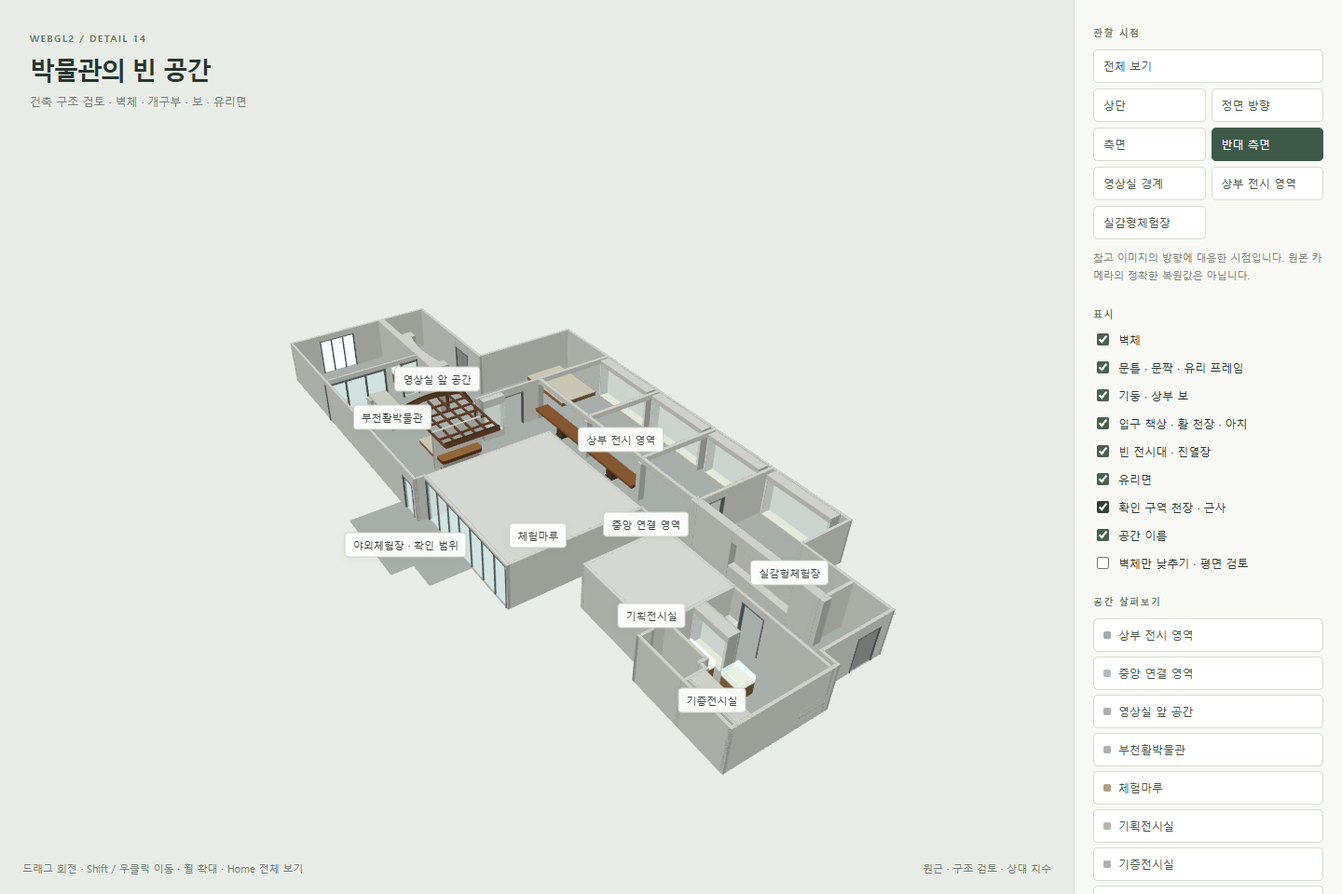
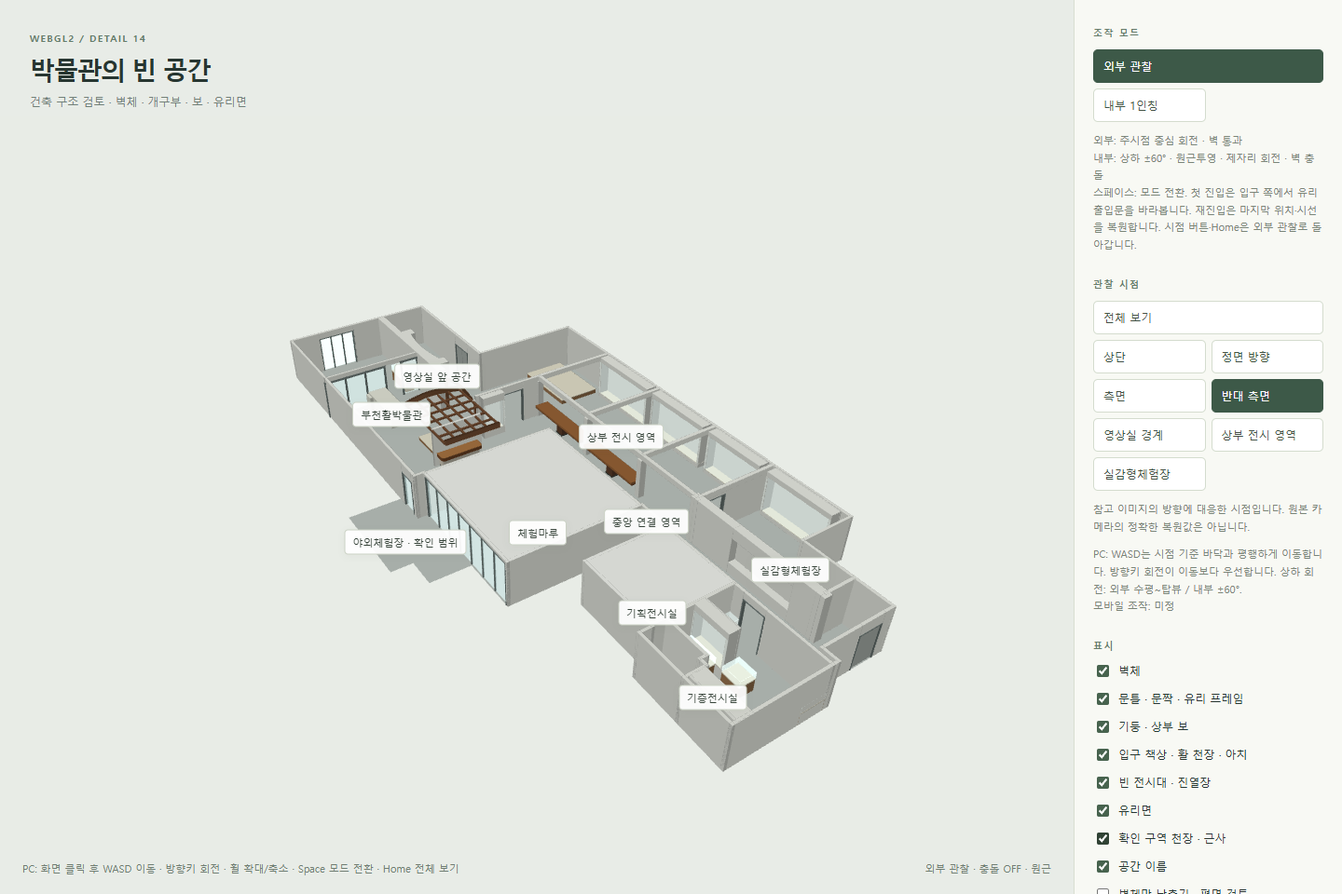
1인칭/3인칭 변환 추가

diff --git a/viewer.js b/viewer.js
@@ -1,4 +1,4 @@
-/* baseline의 D.M4, D.upload, D.program, D.loop와 InspectionControls 재사용.
+/* baseline의 D.M4, D.upload, D.program, D.loop 재사용. PC 카메라는 MuseumControls.
  * 모델 생성·근거 기록은 layout.js/geometry.js에만 둔다. */
 (()=>{
   'use strict';
@@ -6,7 +6,9 @@
   try {
     const gl=canvas.getContext('webgl2',{antialias:true});
     if(!gl)throw new Error('WebGL2를 사용할 수 없습니다. WebGL2 지원 브라우저에서 열어 주세요.');
-    const M=D.M4,controls=InspectionControls(canvas),model=MuseumGeometry.build();
+    const M=D.M4,model=MuseumGeometry.build(),collision=MuseumCollision(model,MuseumLayout);
+    const initialEntry=MuseumGeometry.point([125,430]); // 사용자 체크 위치: 서측 입구 대기 공간
+    const controls=MuseumControls(canvas,{onHome:()=>home(),onInput:()=>{selected='free';sync();},onModeChange:()=>{selected='free';sync();},initialInterior:{eye:[initialEntry[0],1.575,initialEntry[1]],yaw:Math.atan2(125-205,430-366.5)},move:collision.move,spawn:collision.spawn});
     const program=D.program(gl,`#version 300 es
       layout(location=0) in vec3 aPos;layout(location=1) in vec3 aNormal;
       uniform mat4 uModel,uVP;uniform mat3 uNormal;out vec3 vN;
@@ -21,31 +23,34 @@
     const view=M.create(),projection=M.create(),vp=M.create(),identity=M.create();
     const points=MuseumLayout.floor.polygon.map(MuseumGeometry.point);
     const lo=[Math.min(...points.map(p=>p[0])),Math.min(...points.map(p=>p[1]))],hi=[Math.max(...points.map(p=>p[0])),Math.max(...points.map(p=>p[1]))];
-    const center=[(lo[0]+hi[0])/2,.7,(lo[1]+hi[1])/2],radius=Math.hypot(hi[0]-lo[0],hi[1]-lo[1])/2;
+    const center=[(lo[0]+hi[0])/2,.5,(lo[1]+hi[1])/2],radius=Math.hypot(hi[0]-lo[0],hi[1]-lo[1])/2;
     let selected='orbit',lastCamera=null;
     const fields=Object.fromEntries(['walls','frames','names','low','structure','glass','ceiling','details','displays'].map(id=>[id,document.getElementById(id)]));
-    function home(){controls.home();controls.state.target=[...center];controls.state.distance=radius*1.8;selected='orbit';sync();}
-    function sync(){document.querySelectorAll('[data-view]').forEach(b=>b.classList.toggle('active',b.dataset.view===selected));}
-    document.querySelectorAll('[data-view]').forEach(b=>b.addEventListener('click',()=>{if(b.dataset.view==='orbit')home();else{selected=b.dataset.view;controls.state.target=selected==='partition'?[(164-MuseumLayout.origin[0])*MuseumLayout.scale,.8,(300-MuseumLayout.origin[1])*MuseumLayout.scale]:[...center];controls.state.distance=selected==='partition'?14:radius*1.8;if(selected==='gallery'){controls.state.target=[(620-MuseumLayout.origin[0])*MuseumLayout.scale,.9,(100-MuseumLayout.origin[1])*MuseumLayout.scale];controls.state.distance=30;}if(selected==='immersive'){controls.state.target=[(935-MuseumLayout.origin[0])*MuseumLayout.scale,1,(120-MuseumLayout.origin[1])*MuseumLayout.scale];controls.state.distance=18;}sync();}}));
-    // 고정 시점에서 조작하면 eye/up을 쿼터니언으로 변환해 같은 방향에서 이어간다.
-    function adoptCamera(){if(selected==='orbit'||!lastCamera)return;
-      const c=lastCamera,z=c.eye.map((v,i)=>v-c.target[i]),len=Math.hypot(...z);for(let i=0;i<3;i++)z[i]/=len;
-      const cross=(a,b)=>[a[1]*b[2]-a[2]*b[1],a[2]*b[0]-a[0]*b[2],a[0]*b[1]-a[1]*b[0]];
-      const x=cross(c.up,z),xn=Math.hypot(...x);for(let i=0;i<3;i++)x[i]/=xn;const y=cross(z,x);
-      const a=x[0],b=y[0],d=z[0],e=x[1],f=y[1],g=z[1],h=x[2],i=y[2],j=z[2],trace=a+f+j;let q,s;
-      if(trace>0){s=Math.sqrt(trace+1)*2;q=[(i-g)/s,(d-h)/s,(e-b)/s,s/4];}
-      else if(a>f&&a>j){s=Math.sqrt(1+a-f-j)*2;q=[s/4,(b+e)/s,(d+h)/s,(i-g)/s];}
-      else if(f>j){s=Math.sqrt(1+f-a-j)*2;q=[(b+e)/s,s/4,(g+i)/s,(d-h)/s];}
-      else{s=Math.sqrt(1+j-a-f)*2;q=[(d+h)/s,(g+i)/s,s/4,(e-b)/s];}
-      controls.state.rotation=q;controls.state.target=[...c.target];controls.state.distance=len;selected='orbit';sync();
+    function sync(){document.querySelectorAll('[data-mode]').forEach(b=>b.classList.toggle('active',b.dataset.mode===controls.state.mode));document.querySelectorAll('[data-view]').forEach(b=>b.classList.toggle('active',b.dataset.view===selected));}
+    function home(){lastCamera=null;controls.setView({target:center,distance:radius*1.8});selected='orbit';sync();}
+    function preset(name){
+      lastCamera=null;
+      if(name==='orbit'){home();return;}
+      const poses={top:[0,1,0],front:[0,.65,-1],left:[-.85,.75,.55],right:[.85,.75,.55],partition:[.12,.72,-.30],gallery:[0,6,9],immersive:[.22,.40,.55]};
+      const v=poses[name];if(!v)return;
+      let target=[...center],distance=radius*1.8;
+      if(name==='partition'){target=[(164-MuseumLayout.origin[0])*MuseumLayout.scale,.8,(300-MuseumLayout.origin[1])*MuseumLayout.scale];distance=14;}
+      if(name==='gallery'){target=[(620-MuseumLayout.origin[0])*MuseumLayout.scale,.9,(100-MuseumLayout.origin[1])*MuseumLayout.scale];distance=1;}
+      if(name==='immersive'){target=[(935-MuseumLayout.origin[0])*MuseumLayout.scale,1,(120-MuseumLayout.origin[1])*MuseumLayout.scale];distance=18;}
+      const aspect=Math.max(.1,canvas.clientWidth/Math.max(1,canvas.clientHeight));
+      controls.setView({target,distance:distance*Math.hypot(...v),yaw:name==='top'?0:Math.atan2(v[0],v[2]),pitch:Math.atan2(v[1],Math.hypot(v[0],v[2])),orthographic:name==='top'||name==='gallery',halfHeight:name==='gallery'?14/aspect:Math.max(radius*.65,radius*1.08/aspect)});
+      selected=name;sync();
     }
-    canvas.addEventListener('pointerdown',adoptCamera,true);canvas.addEventListener('wheel',adoptCamera,{capture:true,passive:true});
-    canvas.addEventListener('keydown',e=>{if(e.key==='Home'){e.preventDefault();e.stopImmediatePropagation();home();}else adoptCamera();},true);
+    document.querySelectorAll('[data-view]').forEach(b=>b.addEventListener('click',()=>preset(b.dataset.view)));
+    document.querySelectorAll('[data-mode]').forEach(b=>b.addEventListener('click',()=>{
+      controls.setMode(b.dataset.mode);
+      canvas.focus({preventScroll:true});
+    }));
     const labels=MuseumLayout.rooms.map(room=>{
       const el=document.createElement('span');el.className='room-label';el.textContent=room.name;document.querySelector('#labels').append(el);
       const pts=room.polygon.map(MuseumGeometry.point),p=[pts.reduce((s,v)=>s+v[0],0)/pts.length,.12,pts.reduce((s,v)=>s+v[1],0)/pts.length];
       const button=document.createElement('button'),dot=document.createElement('span');dot.className='swatch';dot.style.background=`rgb(${room.color.map(v=>Math.round(v*255)).join(',')})`;button.append(dot,document.createTextNode(room.name));button.title=room.note;
-      button.addEventListener('click',()=>{adoptCamera();controls.state.target=[p[0],.5,p[2]];controls.state.distance=room.id==='long'?27:15;selected='orbit';sync();});document.querySelector('#rooms').append(button);
+      button.addEventListener('click',()=>{lastCamera=null;if(controls.state.mode==='interior')controls.setMode('interior',[p[0],1.575,p[2]]);else controls.setView({target:[p[0],.5,p[2]],distance:room.id==='long'?27:15,yaw:controls.state.yaw,pitch:controls.state.pitch});selected='free';sync();});document.querySelector('#rooms').append(button);
       return {el,p,room:room.id};
     });
     MuseumLayout.unresolved.forEach(t=>{const li=document.createElement('li');li.textContent=t;document.querySelector('#notes').append(li);});
@@ -53,20 +58,13 @@
     function matrix(p){const m=M.create(),short=fields.low.checked&&p.group==='wall';M.translate(m,m,[p.position[0],short?p.position[1]*.25:p.position[1],p.position[2]]);M.rotateY(m,m,p.yaw||0);M.scale(m,m,[p.size[0],short?p.size[1]*.25:p.size[1],p.size[2]]);return m;}
     function draw(mesh,m,color,alpha=1){gl.uniformMatrix4fv(U.uModel,false,m);gl.uniformMatrix3fv(U.uNormal,false,M.normalFrom(m));gl.uniform3fv(U.uColor,color);gl.uniform1f(U.uAlpha,alpha);gl.bindVertexArray(mesh.vao);gl.drawElements(gl.TRIANGLES,mesh.count,gl.UNSIGNED_SHORT,0);}
     function visible(p){if(selected==='gallery'&&!['long','immersive'].includes(p.room))return false;return (p.group!=='wall'||fields.walls.checked)&&(p.group!=='frame'||fields.frames.checked)&&(p.group!=='structure'||fields.structure.checked)&&(p.group!=='glass'||fields.glass.checked)&&(p.group!=='details'||fields.details.checked)&&(!['displays','displayGlass'].includes(p.group)||fields.displays.checked)&&(p.group!=='displayGlass'||fields.glass.checked);}
-    D.loop(()=>{
+    D.loop((now,dt)=>{
+      controls.update(dt);
       const r=canvas.getBoundingClientRect(),dpr=Math.min(devicePixelRatio||1,2),w=Math.max(1,Math.round(r.width*dpr)),h=Math.max(1,Math.round(r.height*dpr));if(canvas.width!==w||canvas.height!==h){canvas.width=w;canvas.height=h;}
       gl.viewport(0,0,w,h);gl.clearColor(.91,.925,.90,1);gl.clear(gl.COLOR_BUFFER_BIT|gl.DEPTH_BUFFER_BIT);
-      let camera=controls.camera();const t=controls.state.target,dist=controls.state.distance;
-      if(selected==='top')camera={eye:[t[0],t[1]+dist,t[2]],target:t,up:[0,0,-1]};
-      if(selected==='front')camera={eye:[t[0],t[1]+dist*.65,t[2]-dist],target:t,up:[0,1,0]};
-      if(selected==='left')camera={eye:[t[0]-dist*.85,t[1]+dist*.75,t[2]+dist*.55],target:t,up:[0,1,0]};
-      if(selected==='right')camera={eye:[t[0]+dist*.85,t[1]+dist*.75,t[2]+dist*.55],target:t,up:[0,1,0]};
-      if(selected==='partition')camera={eye:[t[0]+dist*.12,t[1]+dist*.72,t[2]-dist*.30],target:t,up:[0,1,0]};
-      if(selected==='gallery')camera={eye:[t[0],t[1]+6,t[2]+9],target:t,up:[0,1,0]};
-      if(selected==='immersive')camera={eye:[t[0]+dist*.22,t[1]+dist*.40,t[2]+dist*.55],target:t,up:[0,1,0]};
+      const camera=controls.camera();
       lastCamera=camera;M.lookAt(view,camera.eye,camera.target,camera.up);
-      if(selected==='top'){const half=radius*.65;M.ortho(projection,-Math.max(half*w/h,radius*1.08),Math.max(half*w/h,radius*1.08),-Math.max(half,radius*1.08*h/w),Math.max(half,radius*1.08*h/w),.02,250);}
-      else if(selected==='gallery')M.ortho(projection,-14,14,-14*h/w,14*h/w,.02,250);
+      if(controls.state.orthographic){const half=controls.state.halfHeight;M.ortho(projection,-half*w/h,half*w/h,-half,half,.02,250);}
       else M.perspective(projection,controls.state.fov*Math.PI/180,w/h,.02,250);
       M.multiply(vp,projection,view);gl.useProgram(program);gl.uniformMatrix4fv(U.uVP,false,vp);
       for(const f of model.floors){if(f.group==='ceiling'&&!fields.ceiling.checked)continue;draw(f.gpu,identity,f.color);}
@@ -77,7 +75,7 @@
       for(const p of model.parts.filter(p=>['glass','displayGlass'].includes(p.group)&&visible(p)).sort((a,b)=>distance(b)-distance(a)))draw(cube,matrix(p),p.color,p.alpha);
       gl.depthMask(true);gl.disable(gl.BLEND);
       for(const {el,p,room} of labels){const clip=[0,1,2,3].map(i=>vp[i]*p[0]+vp[4+i]*p[1]+vp[8+i]*p[2]+vp[12+i]),x=clip[0]/clip[3],y=clip[1]/clip[3];el.hidden=(selected==='gallery'&&!['long','immersive'].includes(room))||!fields.names.checked||clip[3]<=0||Math.abs(x)>1||Math.abs(y)>1;el.style.left=(x*.5+.5)*r.width+'px';el.style.top=(-y*.5+.5)*r.height+'px';}
-      document.querySelector('#readings').textContent=`${selected==='top'?'직교':'원근'} · 구조 검토 · 상대 치수`;
+      document.querySelector('#readings').textContent=`${controls.state.mode==='interior'?'내부 1인칭 · 충돌 ON':'외부 관찰 · 충돌 OFF'} · ${controls.state.orthographic?'직교':'원근'}`;
     });
     window.MuseumViewer={gl,model,controls,home,partMatrix:matrix,get camera(){return lastCamera;}};
   } catch(e){error.hidden=false;error.textContent=e.message;console.error(e);}

diff --git a/controls.js b/controls.js
@@ -1,49 +1,53 @@
-/* 가상 구(arcball)에 포인터를 투영하는 기본 트랙볼.
-   회전 상태는 쿼터니언이며 카메라의 eye/up을 함께 회전합니다. */
-window.InspectionControls = function(canvas) {
-  const normalize=v=>{const n=Math.hypot(...v)||1;return v.map(x=>x/n);};
-  const cross=(a,b)=>[a[1]*b[2]-a[2]*b[1],a[2]*b[0]-a[0]*b[2],a[0]*b[1]-a[1]*b[0]];
-  const mul=(a,b)=>[
-    a[3]*b[0]+a[0]*b[3]+a[1]*b[2]-a[2]*b[1],
-    a[3]*b[1]-a[0]*b[2]+a[1]*b[3]+a[2]*b[0],
-    a[3]*b[2]+a[0]*b[1]-a[1]*b[0]+a[2]*b[3],
-    a[3]*b[3]-a[0]*b[0]-a[1]*b[1]-a[2]*b[2]];
-  const rotate=(q,v)=>mul(mul(q,[...v,0]),[-q[0],-q[1],-q[2],q[3]]).slice(0,3);
-  const state={target:[3,3,0],distance:30,rotation:[0,0,0,1],fov:45,actions:0};
-  function home(){state.target=[3,3,0];state.distance=30;state.rotation=normalize(mul([0,Math.sin(.3),0,Math.cos(.3)],[Math.sin(-.22),0,0,Math.cos(.22)]));state.fov=45;}
-  home();
-  function sphere(e){const r=canvas.getBoundingClientRect(),s=Math.min(r.width,r.height),x=(2*(e.clientX-r.left)-r.width)/s,y=(r.height-2*(e.clientY-r.top))/s,d=x*x+y*y;return d<=1?[x,y,Math.sqrt(1-d)]:normalize([x,y,0]);}
-  let drag=null;
-  canvas.style.touchAction='none';
-  canvas.addEventListener('contextmenu',e=>e.preventDefault());
-  canvas.addEventListener('pointerdown',e=>{
-    if(drag || ![0,2].includes(e.button))return;
-    drag={id:e.pointerId,p:sphere(e),x:e.clientX,y:e.clientY,q:[...state.rotation],target:[...state.target],pan:e.shiftKey||e.button===2};
-    state.actions++;canvas.setPointerCapture(e.pointerId);
-  });
-  canvas.addEventListener('pointermove',e=>{
-    if(!drag || drag.id!==e.pointerId)return;
-    if(drag.pan){
-      const r=canvas.getBoundingClientRect(),unit=2*state.distance*Math.tan(state.fov*Math.PI/360)/r.height;
-      const right=rotate(drag.q,[1,0,0]),up=rotate(drag.q,[0,1,0]);
-      state.target=drag.target.map((v,i)=>v-(e.clientX-drag.x)*unit*right[i]+(e.clientY-drag.y)*unit*up[i]);
-    }else{
-      // 현재 포인터에서 시작점으로의 역회전은 카메라를 움직여 물체가 드래그를 따라가게 합니다.
-      const current=sphere(e),dot=current.reduce((v,x,i)=>v+x*drag.p[i],0);
-      let q=[...cross(current,drag.p),1+dot];
-      if(Math.hypot(...q)<1e-7){const axis=normalize(cross(current,Math.abs(current[0])<.9?[1,0,0]:[0,1,0]));q=[...axis,0];}
-      state.rotation=normalize(mul(drag.q,normalize(q)));
-    }
-  });
-  for(const event of ['pointerup','pointercancel','lostpointercapture'])canvas.addEventListener(event,e=>{if(drag?.id===e.pointerId)drag=null;});
-  canvas.addEventListener('wheel',e=>{e.preventDefault();state.distance=Math.max(.12,Math.min(100,state.distance*Math.exp(e.deltaY*.001)));state.actions++;},{passive:false});
-  canvas.addEventListener('keydown',e=>{
-    if(!['ArrowLeft','ArrowRight','ArrowUp','ArrowDown','+','-','Home'].includes(e.key))return;e.preventDefault();state.actions++;
-    if(e.key==='Home'){home();return;}
-    if(e.key==='+')state.distance=Math.max(.12,state.distance/1.12);
-    else if(e.key==='-')state.distance=Math.min(100,state.distance*1.12);
-    else {const h=e.key==='ArrowLeft'?.06:e.key==='ArrowRight'?-.06:0,v=e.key==='ArrowUp'?.06:e.key==='ArrowDown'?-.06:0;state.rotation=normalize(mul(state.rotation,normalize([v,h,0,1])));}
-  });
-  function camera(){const offset=rotate(state.rotation,[0,0,state.distance]);return {eye:state.target.map((v,i)=>v+offset[i]),target:[...state.target],up:rotate(state.rotation,[0,1,0])};}
-  return {state,home,camera};
+/* 명시적 mode: exterior=주시점 회전/충돌 없음, interior=제자리 회전/수평 이동/충돌. */
+window.MuseumControls=function(canvas,options={}){
+ const state={mode:'exterior',target:[0,.5,0],distance:30,yaw:.6,pitch:.44,fov:45,actions:0,orthographic:false,halfHeight:15,minEyeHeight:1.575};
+ let eye=null,savedInterior=null,savedExterior=null;const keys=new Set(),arrows=['ArrowLeft','ArrowRight','ArrowUp','ArrowDown'];
+ const supported=new Set([...arrows,'KeyW','KeyA','KeyS','KeyD','Home','Equal','Minus','NumpadAdd','NumpadSubtract']);
+ const clamp=(v,a,b)=>Math.max(a,Math.min(b,v)),pc=()=>!matchMedia('(pointer: coarse)').matches;
+ const clear=()=>keys.clear(),rotating=()=>arrows.some(k=>keys.has(k));
+ function syncProjection(){if(state.mode==='interior'){state.orthographic=false;return;}const top=state.pitch===Math.PI/2;if(top===state.orthographic)return;const t=Math.tan(state.fov*Math.PI/360);if(top)state.halfHeight=state.distance*t;else if(state.mode==='exterior')state.distance=state.halfHeight/t;state.orthographic=top;}
+ function camera(){const s=Math.sin(state.yaw),c=Math.cos(state.yaw),sp=Math.sin(state.pitch),cp=Math.cos(state.pitch),offset=[state.distance*cp*s,state.distance*sp,state.distance*cp*c],up=[-s*sp,cp,-c*sp];
+  if(state.mode==='interior')return {eye:[...eye],target:eye.map((v,i)=>v-offset[i]),up};
+  return {eye:state.target.map((v,i)=>v+offset[i]),target:[...state.target],up};
+ }
+ function rememberInterior(){if(state.mode==='interior')savedInterior={eye:[...eye],yaw:state.yaw,pitch:state.pitch,fov:state.fov,distance:state.distance};}
+ function setView({target,distance=30,yaw=.6,pitch=.44,orthographic=false,halfHeight=15}){rememberInterior();clear();eye=null;Object.assign(state,{mode:'exterior',target:[...target],distance,yaw,pitch:clamp(pitch,0,Math.PI/2),orthographic,halfHeight,fov:45});if(state.pitch!==Math.PI/2)state.orthographic=false;else if(!orthographic)syncProjection();}
+ function setMode(mode,position){
+  if(!['interior','exterior'].includes(mode))throw Error('Unknown camera mode');if(mode===state.mode&&!position)return;
+  clear();
+  if(mode==='interior'){
+   if(state.mode==='exterior')savedExterior={target:[...state.target],distance:state.distance,yaw:state.yaw,pitch:state.pitch,orthographic:state.orthographic,halfHeight:state.halfHeight};
+   const initial=options.initialInterior||{eye:[0,state.minEyeHeight,0],yaw:0};
+   const pose=position?{eye:position,yaw:state.yaw,pitch:0,fov:45,distance:3}:savedInterior||{...initial,pitch:0,fov:45,distance:3};
+   eye=[...pose.eye];eye[1]=state.minEyeHeight;eye=options.spawn?options.spawn(eye):eye;
+   Object.assign(state,{mode,yaw:pose.yaw,pitch:clamp(pose.pitch,-Math.PI/3,Math.PI/3),distance:pose.distance,fov:pose.fov,orthographic:false});
+  }else{
+   rememberInterior();const current=camera();
+   if(savedExterior)setView(savedExterior);else setView({target:current.target,yaw:state.yaw,pitch:Math.max(0,state.pitch),distance:state.distance});
+  }
+  options.onModeChange?.(mode);
+ }
+ function toggleMode(){setMode(state.mode==='interior'?'exterior':'interior');}
+ function zoom(delta){if(state.mode==='interior'){state.fov=clamp(state.fov*Math.exp(delta),25,75);if(state.orthographic)state.halfHeight=state.distance*Math.tan(state.fov*Math.PI/360);return;}
+  const old=state.distance;state.distance=clamp(old*Math.exp(delta),.12,150);state.halfHeight*=state.distance/old;
+ }
+ function home(){setView({target:[0,.5,0]});options.onModeChange?.('exterior');}
+ canvas.addEventListener('pointerdown',e=>{if(e.pointerType==='mouse')canvas.focus({preventScroll:true});});
+ canvas.addEventListener('wheel',e=>{if(!pc()||e.ctrlKey||e.metaKey)return;e.preventDefault();if(rotating())return;options.onInput?.();zoom(clamp(e.deltaY*(e.deltaMode===1?16:e.deltaMode===2?canvas.clientHeight:1)*.001,-1,1));state.actions++;},{passive:false});
+ canvas.addEventListener('keydown',e=>{if(!pc()||e.ctrlKey||e.metaKey||e.altKey||!supported.has(e.code))return;e.preventDefault();if(e.code==='Home'){clear();options.onHome?.();return;}keys.add(e.code);options.onInput?.();if(!e.repeat)state.actions++;});
+ window.addEventListener('keydown',e=>{
+  if(e.code!=='Space'||!pc()||e.ctrlKey||e.metaKey||e.altKey)return;
+  if(e.target?.closest?.('input,textarea,select,[contenteditable="true"],[role="textbox"]'))return;
+  e.preventDefault();if(e.repeat)return;toggleMode();canvas.focus({preventScroll:true});
+ },true);
+ window.addEventListener('keyup',e=>keys.delete(e.code));window.addEventListener('blur',clear);canvas.addEventListener('blur',clear);document.addEventListener('visibilitychange',()=>{if(document.hidden)clear();});
+ function update(dt){syncProjection();if(!pc()){clear();return;}dt=clamp(dt,0,.05);
+  if(rotating()){const inside=state.mode==='interior',sign=inside?-1:1;state.yaw+=sign*((keys.has('ArrowRight')?1:0)-(keys.has('ArrowLeft')?1:0))*1.25*dt;state.pitch=clamp(state.pitch+sign*((keys.has('ArrowUp')?1:0)-(keys.has('ArrowDown')?1:0))*1.05*dt,inside?-Math.PI/3:0,inside?Math.PI/3:Math.PI/2);syncProjection();if(!inside)return;}
+  if(keys.has('Equal')||keys.has('NumpadAdd'))zoom(-dt*1.3);if(keys.has('Minus')||keys.has('NumpadSubtract'))zoom(dt*1.3);
+  let f=(keys.has('KeyW')?1:0)-(keys.has('KeyS')?1:0),side=(keys.has('KeyD')?1:0)-(keys.has('KeyA')?1:0),n=Math.hypot(f,side);if(!n)return;f/=n;side/=n;
+  const speed=(state.mode==='interior'?3:clamp(state.distance*.45,1,30)*1.5)*dt,s=Math.sin(state.yaw),c=Math.cos(state.yaw),delta=[(-s*f+c*side)*speed,0,(-c*f-s*side)*speed];
+  if(state.mode==='interior'){const dest=eye.map((v,i)=>v+delta[i]);eye=options.move?options.move(eye,dest):dest;}
+  else state.target=state.target.map((v,i)=>v+delta[i]);
+ }
+ return {state,setView,setMode,toggleMode,home,camera,update,clear};
 };

diff --git a/index.html b/index.html
@@ -1,11 +1,11 @@
 <!doctype html>
 <html lang="ko" data-theme="light"><head><meta charset="utf-8"><meta name="viewport" content="width=device-width,initial-scale=1"><title>박물관 · 구조 스켈레톤</title><link rel="stylesheet" href="style.css"></head>
-<body><main class="app"><section class="stage"><header><span class="tag">WEBGL2 / DETAIL 14</span><h1>박물관의 빈 공간</h1><p>건축 구조 검토 · 벽체 · 개구부 · 보 · 유리면</p></header><div class="viewport"><canvas id="cv" tabindex="0" aria-label="박물관 구조 모델. 드래그 회전, Shift 또는 오른쪽 드래그 이동, 휠 확대"></canvas><div id="labels" aria-hidden="true"></div><div id="error" role="alert" hidden></div></div><footer><span>드래그 회전 · Shift / 우클릭 이동 · 휠 확대 · Home 전체 보기</span><output id="readings"></output></footer></section>
-<aside><div class="section-label">관찰 시점</div><div class="views"><button data-view="orbit" class="active">전체 보기</button><button data-view="top">상단</button><button data-view="front">정면 방향</button><button data-view="left">측면</button><button data-view="right">반대 측면</button><button data-view="partition">영상실 경계</button><button data-view="gallery">상부 전시 영역</button><button data-view="immersive">실감형체험장</button></div><p class="hint">참고 이미지의 방향에 대응한 시점입니다. 원본 카메라의 정확한 복원값은 아닙니다.</p>
-<div class="section-label">표시</div><label><input type="checkbox" id="walls" checked> 벽체</label><label><input type="checkbox" id="frames" checked> 문틀 · 문짝 · 유리 프레임</label><label><input type="checkbox" id="structure" checked> 기둥 · 상부 보</label><label><input type="checkbox" id="details" checked> 입구 책상 · 활 천장 · 아치</label><label><input type="checkbox" id="displays" checked> 빈 전시대 · 진열장</label><label><input type="checkbox" id="glass" checked> 유리면</label><label><input type="checkbox" id="ceiling"> 확인 구역 천장 · 근사</label><label><input type="checkbox" id="names" checked> 공간 이름</label><label><input type="checkbox" id="low"> 벽체만 낮추기 · 평면 검토</label>
+<body><main class="app"><section class="stage"><header><span class="tag">WEBGL2 / DETAIL 14</span><h1>박물관의 빈 공간</h1><p>건축 구조 검토 · 벽체 · 개구부 · 보 · 유리면</p></header><div class="viewport"><canvas id="cv" tabindex="0" aria-label="박물관 구조 모델. PC: WASD 이동, 방향키 회전, 휠 확대 축소"></canvas><div id="labels" aria-hidden="true"></div><div id="error" role="alert" hidden></div></div><footer><span>PC: 화면 클릭 후 WASD 이동 · 방향키 회전 · 휠 확대/축소 · Space 모드 전환 · Home 전체 보기</span><output id="readings"></output></footer></section>
+<aside><div class="section-label">조작 모드</div><div class="views"><button data-mode="exterior" class="active">외부 관찰</button><button data-mode="interior">내부 1인칭</button></div><p class="hint">외부: 주시점 중심 회전 · 벽 통과<br>내부: 상하 ±60° · 원근투영 · 제자리 회전 · 벽 충돌<br>스페이스: 모드 전환. 첫 진입은 입구 쪽에서 유리 출입문을 바라봅니다. 재진입은 마지막 위치·시선을 복원합니다. 시점 버튼·Home은 외부 관찰로 돌아갑니다.</p><div class="section-label">관찰 시점</div><div class="views"><button data-view="orbit" class="active">전체 보기</button><button data-view="top">상단</button><button data-view="front">정면 방향</button><button data-view="left">측면</button><button data-view="right">반대 측면</button><button data-view="partition">영상실 경계</button><button data-view="gallery">상부 전시 영역</button><button data-view="immersive">실감형체험장</button></div><p class="hint">참고 이미지의 방향에 대응한 시점입니다. 원본 카메라의 정확한 복원값은 아닙니다.</p>
+<p class="hint">PC: WASD는 시점 기준 바닥과 평행하게 이동합니다. 외부는 회전 우선, 내부는 WASD 이동·방향키 회전 동시 적용(이동속도 2배). 상하 회전: 외부 수평~탑뷰 / 내부 ±60°.<br>모바일 조작: 미정</p><div class="section-label">표시</div><label><input type="checkbox" id="walls" checked> 벽체</label><label><input type="checkbox" id="frames" checked> 문틀 · 문짝 · 유리 프레임</label><label><input type="checkbox" id="structure" checked> 기둥 · 상부 보</label><label><input type="checkbox" id="details" checked> 입구 책상 · 활 천장 · 아치</label><label><input type="checkbox" id="displays" checked> 빈 전시대 · 진열장</label><label><input type="checkbox" id="glass" checked> 유리면</label><label><input type="checkbox" id="ceiling"> 확인 구역 천장 · 근사</label><label><input type="checkbox" id="names" checked> 공간 이름</label><label><input type="checkbox" id="low"> 벽체만 낮추기 · 평면 검토</label>
 <div class="section-label">공간 살펴보기</div><div id="rooms"></div>
 <details><summary>모델의 범위와 불확실성</summary><ul id="notes"></ul></details><div class="notice">실측 모델이 아닙니다.<br>상단 이미지의 상대 비율을 사용하며 벽 높이·두께·개구부 치수는 임시값입니다. 외벽은 실내 외곽을 따라 연결했습니다. 가려진 부분은 근사 연결이며 야외는 외벽에서 제외했습니다.</div><p class="hint">모델 데이터: layout.js<br>상세 단계: 빈 전시대 포함 · 전시품 제외<br>천장은 체험마루·기획전시실만 선택 표시</p></aside></main>
-<script src="demo.js"></script><script src="layout.js"></script><script src="details.js"></script><script src="geometry.js"></script><script src="controls.js"></script><script src="viewer.js"></script></body></html>
+<script src="demo.js"></script><script src="layout.js"></script><script src="details.js"></script><script src="geometry.js"></script><script src="collision.js"></script><script src="controls.js"></script><script src="viewer.js"></script></body></html>
 
 
 

diff --git a/style.css b/style.css
@@ -1,1 +1,1 @@
-:root{color-scheme:light;font-family:system-ui,'Malgun Gothic',sans-serif;color:#273631;background:#e8ece7;--d-canvas:#e8ece7}*{box-sizing:border-box}body{margin:0}.app{display:grid;grid-template-columns:minmax(0,1fr) 288px;height:100vh;height:100dvh}.stage{display:flex;flex-direction:column;min-width:0;min-height:0}header{padding:28px 32px 8px;pointer-events:none}.tag,.section-label{font-size:10px;font-weight:700;letter-spacing:.14em;color:#657b6a}h1{font-size:27px;font-weight:600;letter-spacing:-.06em;margin:8px 0}header p{font-size:12px;color:#718078;margin:0}.viewport{flex:1;position:relative;min-height:250px;overflow:hidden}canvas{width:100%;height:100%;display:block;position:absolute;inset:0;outline:none;cursor:grab}canvas:focus-visible{outline:2px solid #6c826e;outline-offset:-3px}#labels{position:absolute;inset:0;pointer-events:none}.room-label{position:absolute;transform:translate(-50%,-50%);background:#fffffff0;padding:5px 8px;border:1px solid #cad1c4;border-radius:4px;font-size:11px;white-space:nowrap;color:#364339;box-shadow:0 2px 8px #2438280c}footer{padding:12px 24px 20px;color:#6f7d72;font-size:11px;display:flex;gap:12px;justify-content:space-between;flex-wrap:wrap}aside{background:#f8f9f4;border-left:1px solid #d8ded1;padding:28px 20px;overflow:auto}.section-label{margin:0 0 12px}.section-label:not(:first-child){margin-top:25px}.views{display:grid;grid-template-columns:1fr 1fr;gap:6px}button{font:inherit;font-size:12px;text-align:left;border:1px solid #d4dcce;border-radius:5px;background:#fff;padding:9px 10px;color:#435244;cursor:pointer}button:hover{border-color:#7d947e}button.active{background:#3d5948;color:white;border-color:#3d5948}.views button:first-child{grid-column:span 2}label{display:flex;align-items:center;gap:7px;font-size:12px;margin:11px 0;cursor:pointer}input{accent-color:#47634e}.hint{font-size:11px;color:#7a8578;line-height:1.7}#rooms{display:grid;gap:5px}#rooms button{display:flex;align-items:center;gap:8px}.swatch{width:8px;height:8px;border-radius:2px;flex-shrink:0}details{margin-top:24px;font-size:12px;line-height:1.7}summary{cursor:pointer}ul{padding-left:17px;color:#6a766a}.notice{margin-top:20px;padding:12px;background:#edf0e6;border-radius:5px;font-size:11px;line-height:1.8;color:#5d6a55}#error{position:absolute;inset:30%;background:#fff;padding:20px;color:#963a32}button:focus-visible{outline:2px solid #4a7154;outline-offset:2px}@media(max-width:760px){.app{grid-template-columns:1fr;height:auto}.stage{height:76vh}aside{border-left:0;border-top:1px solid #d8ded1;padding:20px}header{padding:20px 20px 5px}#rooms{grid-template-columns:1fr 1fr}footer{padding:10px;font-size:10px}}
+:root{color-scheme:light;font-family:system-ui,'Malgun Gothic',sans-serif;color:#273631;background:#e8ece7;--d-canvas:#e8ece7}*{box-sizing:border-box}body{margin:0}.app{display:grid;grid-template-columns:minmax(0,1fr) 288px;height:100vh;height:100dvh}.stage{display:flex;flex-direction:column;min-width:0;min-height:0}header{padding:28px 32px 8px;pointer-events:none}.tag,.section-label{font-size:10px;font-weight:700;letter-spacing:.14em;color:#657b6a}h1{font-size:27px;font-weight:600;letter-spacing:-.06em;margin:8px 0}header p{font-size:12px;color:#718078;margin:0}.viewport{flex:1;position:relative;min-height:250px;overflow:hidden}canvas{width:100%;height:100%;display:block;position:absolute;inset:0;outline:none;cursor:default}canvas:focus-visible{outline:2px solid #6c826e;outline-offset:-3px}#labels{position:absolute;inset:0;pointer-events:none}.room-label{position:absolute;transform:translate(-50%,-50%);background:#fffffff0;padding:5px 8px;border:1px solid #cad1c4;border-radius:4px;font-size:11px;white-space:nowrap;color:#364339;box-shadow:0 2px 8px #2438280c}footer{padding:12px 24px 20px;color:#6f7d72;font-size:11px;display:flex;gap:12px;justify-content:space-between;flex-wrap:wrap}aside{background:#f8f9f4;border-left:1px solid #d8ded1;padding:28px 20px;overflow:auto}.section-label{margin:0 0 12px}.section-label:not(:first-child){margin-top:25px}.views{display:grid;grid-template-columns:1fr 1fr;gap:6px}button{font:inherit;font-size:12px;text-align:left;border:1px solid #d4dcce;border-radius:5px;background:#fff;padding:9px 10px;color:#435244;cursor:pointer}button:hover{border-color:#7d947e}button.active{background:#3d5948;color:white;border-color:#3d5948}.views button:first-child{grid-column:span 2}label{display:flex;align-items:center;gap:7px;font-size:12px;margin:11px 0;cursor:pointer}input{accent-color:#47634e}.hint{font-size:11px;color:#7a8578;line-height:1.7}#rooms{display:grid;gap:5px}#rooms button{display:flex;align-items:center;gap:8px}.swatch{width:8px;height:8px;border-radius:2px;flex-shrink:0}details{margin-top:24px;font-size:12px;line-height:1.7}summary{cursor:pointer}ul{padding-left:17px;color:#6a766a}.notice{margin-top:20px;padding:12px;background:#edf0e6;border-radius:5px;font-size:11px;line-height:1.8;color:#5d6a55}#error{position:absolute;inset:30%;background:#fff;padding:20px;color:#963a32}button:focus-visible{outline:2px solid #4a7154;outline-offset:2px}@media(max-width:760px){.app{grid-template-columns:1fr;height:auto}.stage{height:76vh}aside{border-left:0;border-top:1px solid #d8ded1;padding:20px}header{padding:20px 20px 5px}#rooms{grid-template-columns:1fr 1fr}footer{padding:10px;font-size:10px}}

diff --git a/collision.js b/collision.js
@@ -1,0 +1,42 @@
+/* 실내 1인칭 전용 수평 충돌: swept OBB + 벽을 따라 미끄러지는 이동. */
+window.MuseumCollision=function(model,layout){
+ const radius=.08,groups=['wall','frame','glass','structure','displays','displayGlass','details'];
+ const boxes=model.parts.filter(p=>!p.mesh&&groups.includes(p.group));
+ // 둥근 작업대 등 사용자 정의 상세 메시도 보수적인 경계 상자로 포함한다.
+ // 머리 위 격자·아치는 아래의 몸체 높이 검사에서 제외된다.
+ for(const p of model.parts.filter(p=>p.mesh&&['details','displays'].includes(p.group))){
+  const lo=[Infinity,Infinity,Infinity],hi=[-Infinity,-Infinity,-Infinity];
+  for(let i=0;i<p.mesh.pos.length;i++){
+   const axis=i%3,v=p.mesh.pos[i]*p.size[axis];lo[axis]=Math.min(lo[axis],v);hi[axis]=Math.max(hi[axis],v);
+  }
+  const localCenter=lo.map((v,i)=>(v+hi[i])/2),c=Math.cos(p.yaw),s=Math.sin(p.yaw);
+  boxes.push({position:[p.position[0]+c*localCenter[0]+s*localCenter[2],p.position[1]+localCenter[1],p.position[2]-s*localCenter[0]+c*localCenter[2]],size:lo.map((v,i)=>hi[i]-v),yaw:p.yaw});
+ }
+ for(const w of layout.solidWalls||[])for(let i=0;i<w.polygon.length;i++){
+  const a=MuseumGeometry.point(w.polygon[i]),b=MuseumGeometry.point(w.polygon[(i+1)%w.polygon.length]);
+  boxes.push({position:[(a[0]+b[0])/2,w.height/2,(a[1]+b[1])/2],size:[Math.hypot(b[0]-a[0],b[1]-a[1]),w.height,.001],yaw:-Math.atan2(b[1]-a[1],b[0]-a[0])});
+ }
+ const local=(p,b)=>{const x=p[0]-b.position[0],z=p[2]-b.position[2],c=Math.cos(b.yaw),s=Math.sin(b.yaw);return [c*x-s*z,s*x+c*z];};
+ // 눈높이가 아닌 발끝~머리 범위. 낮은 받침/상판도 막고 상부 보는 통과한다.
+ const relevant=(b,y)=>y+.18>b.position[1]-b.size[1]/2&&y-1.525<b.position[1]+b.size[1]/2;
+ function blocked(p){return boxes.some(b=>{const q=local(p,b);return relevant(b,p[1])&&Math.abs(q[0])<b.size[0]/2+radius&&Math.abs(q[1])<b.size[2]/2+radius;});}
+ function hit(a,b,box){
+  if(!relevant(box,a[1]))return null;const p=local(a,box),q=local(b,box),half=[box.size[0]/2+radius,box.size[2]/2+radius];let enter=-Infinity,exit=Infinity,normal=null;
+  for(let i=0;i<2;i++){const d=q[i]-p[i];if(Math.abs(d)<1e-10){if(Math.abs(p[i])>=half[i])return null;continue;}
+   let lo=(-half[i]-p[i])/d,hi=(half[i]-p[i])/d;const sign=d>0?-1:1;if(lo>hi)[lo,hi]=[hi,lo];
+   if(lo>enter){enter=lo;normal=i===0?[Math.cos(box.yaw)*sign,0,-Math.sin(box.yaw)*sign]:[Math.sin(box.yaw)*sign,0,Math.cos(box.yaw)*sign];}
+   exit=Math.min(exit,hi);if(enter>exit)return null;
+  }
+  return enter>=0&&enter<=1&&exit>=0?{t:enter,normal}:null;
+ }
+ function move(from,to){let pos=[...from],remaining=to.map((v,i)=>v-from[i]);remaining[1]=0;
+  for(let iteration=0;iteration<3;iteration++){
+   const dest=pos.map((v,i)=>v+remaining[i]);let nearest=null;for(const box of boxes){const h=hit(pos,dest,box);if(h&&(!nearest||h.t<nearest.t))nearest=h;}
+   if(!nearest)return dest;const len=Math.hypot(...remaining),t=Math.max(0,nearest.t-.001/Math.max(.001,len));pos=pos.map((v,i)=>v+remaining[i]*t);
+   remaining=remaining.map(v=>v*(1-t));const dot=remaining.reduce((s,v,i)=>s+v*nearest.normal[i],0);if(dot<0)remaining=remaining.map((v,i)=>v-dot*nearest.normal[i]);
+  }return pos;
+ }
+ function inside(p){const v=layout.envelope.map(MuseumGeometry.point);let yes=false;for(let i=0,j=v.length-1;i<v.length;j=i++){if((v[i][1]>p[2])!==(v[j][1]>p[2])&&p[0]<(v[j][0]-v[i][0])*(p[2]-v[i][1])/(v[j][1]-v[i][1])+v[i][0])yes=!yes;}return yes;}
+ function spawn(wanted){if(inside(wanted)&&!blocked(wanted))return [...wanted];for(let r=.2;r<40;r+=.2)for(let i=0;i<32;i++){const p=[wanted[0]+r*Math.cos(i*Math.PI/16),wanted[1],wanted[2]+r*Math.sin(i*Math.PI/16)];if(inside(p)&&!blocked(p))return p;}throw Error('진입 가능한 실내 위치를 찾지 못했습니다.');}
+ return {move,spawn,blocked};
+};
